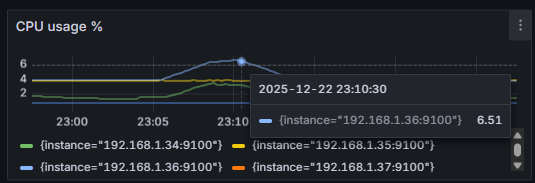
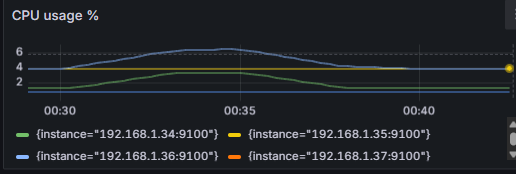
Update task-3: Modify .gitignore to exclude .tar.gz files, update performance metrics in REPORT.md, and add new screenshots. Adjusted latency and throughput values based on recent tests, and clarified database connection limits as the bottleneck.

diff --git a/task-3/reports/REPORT.md b/task-3/reports/REPORT.md
@@ -20,22 +20,22 @@
 | Метрика | SLO | Фактическое |
 |---------|-----|-------------|
 | Availability | 99.9% | 100% ✅ |
-| Latency p95 | < 500ms | 75ms ✅ |
+| Latency p95 | < 500ms | 60.75ms ✅ |
 | Error Rate | < 0.1% | 0% ✅ |
-| Throughput | ≥ 100 RPS | 194 RPS ✅ |
+| Throughput | ≥ 100 RPS | 195 RPS ✅ |
 
 ## 3. Максимальная производительность
 
-Проведен тест с нагрузкой 200 виртуальных пользователей в течение 3 минут. Обработано 34,004 запросов, пропускная способность ~194 RPS. Error rate 0%, p95 latency 71ms, успешность 99.78%. Все SLO/SLA выполнены.
+Проведен тест с нагрузкой 200 виртуальных пользователей в течение 3 минут. Обработано 34,116 запросов, пропускная способность ~195 RPS. Error rate 0%, p95 latency 60.75ms, успешность 99.87%. Все SLO/SLA выполнены. При анализе метрик ingress в Grafana графики показывают только ~42 RPS, что связано с особенностями агрегации метрик ingress, поэтому для оценки производительности использованы данные k6.
 
 ## 4. Узкое место
 
-Узким местом системы являются соединения к базе данных PostgreSQL. Во время теста при постепенном повышении нагрузки был зафиксирован пик в 194 активных соединения к БД (см. `reposrts/screenshots/postgres_active_connections.png`). Максимальная производительность ~194 RPS достигается при максимальной нагрузке на пул соединений.
+Узким местом системы являются соединения к базе данных PostgreSQL. Во время теста при постепенном повышении нагрузки был зафиксирован пик в 190 активных соединения к БД (см. `reports/screenshots/postgres_active_connections.png`). Максимальная производительность ~195 RPS достигается при максимальной нагрузке на пул соединений.
 
-Использование CPU на всех нодах составило всего 6.5% (см. `reposrts/screenshots/cpu_usage.png`), что исключает процессор как узкое место. Проблема в ограничениях на уровне пула соединений, а не в ресурсах инфраструктуры.
+Использование CPU на всех нодах составило всего 6.5% (см. `reports/screenshots/cpu_usage.png`), что исключает процессор как узкое место. Проблема в ограничениях на уровне пула соединений, а не в ресурсах инфраструктуры.
 
 Конфигурация: 3 реплики API по 0.3 CPU каждая.
 
 ## 5. Выводы
 
-Система стабильно работает при нагрузке до 200 VUs (~194 RPS), все SLO/SLA выполнены. Узкое место — соединения к PostgreSQL (194 соединения при пике). CPU не является ограничением (6.5% использования). Для масштабирования требуется оптимизация connection pool и увеличение лимитов соединений к БД.
+Система стабильно работает при нагрузке до 200 VUs, все SLO/SLA выполнены. Узкое место — соединения к PostgreSQL (190 соединения при пике). CPU не является ограничением (6.5% использования). Для масштабирования требуется увеличение лимитов соединений к БД.
